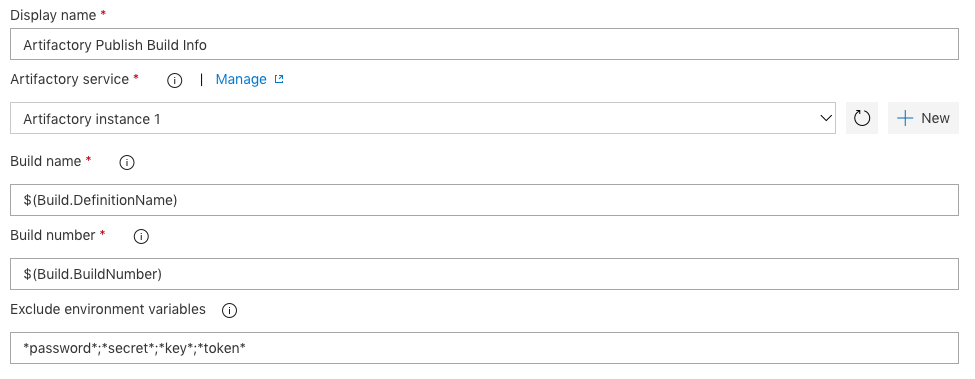
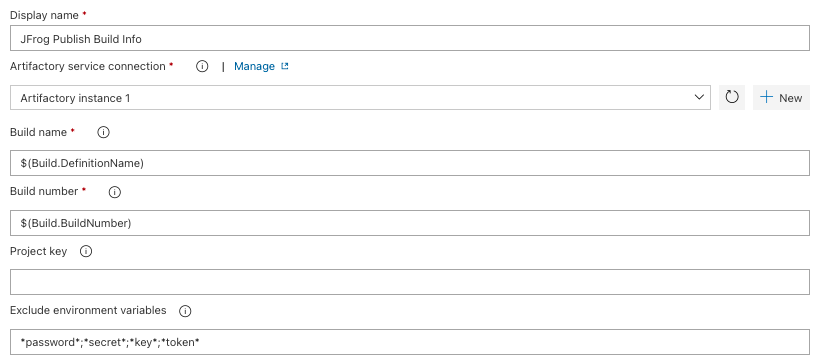
Update overview.md

diff --git a/tests/testUtils.ts b/tests/testUtils.ts
@@ -68,8 +68,7 @@ export function initTests(): void {
     tl.setVariable('Agent.TempDirectory', testDataDir);
     tl.setVariable('Agent.ToolsDirectory', testDataDir);
 
-    // TODO uncomment when eco is back to normal
-    // cleanUpOldRepositories();
+    cleanUpOldRepositories();
     recreateTestDataDir();
     createTestRepositories();
 }

diff --git a/tests/tests.ts b/tests/tests.ts
@@ -607,7 +607,7 @@ describe('JFrog Artifactory Extension Tests', (): void => {
             TestUtils.isSkipTest('maven')
         );
     });
-    // todo get latest extractor
+
     describe('Gradle Tests', (): void => {
         runSyncTest(
             'Gradle',

diff --git a/overview.md b/overview.md
@@ -1,101 +1,141 @@
 ## Overview
-**JFrog Artifactory** is a Universal Repository Manager supporting all major packaging formats and build tools.
+The **JFrog Platform** is a leading universal end-to-end DevOps platform for automating, managing, securing, distributing, orchestrating, monitoring, and optimizing your Cl/ CD pipeline.
 
-[Learn more](https://jfrog.com/artifactory/)
+[Learn more](https://jfrog.com/)
 
-Artifactory provides tight integration Azure DevOps through the **JFrog Artifactory Extension.** 
+**JFrog Artifactory** provides tight integration with Azure DevOps through the **JFrog Extension.** 
 In addition to managing efficient deployment of your artifacts to Artifactory, 
 the extension lets you capture information about your build's resolved dependencies and deployed artifacts. 
 Gain full traceability for your builds as the environment data associated with your build is automatically collected.
 
+[Learn more](https://jfrog.com/artifactory/)
+
 The extension currently supports the following package managers:
-Maven, Gradle, npm, NuGet, Go, Pip and Conan. It also allows downloading and uploading generic files from and to Artifactory.
+Maven, Gradle, Go, npm, NuGet, .NET Core, Pip and Conan. It also allows downloading and uploading generic files from and to Artifactory, and perform generic tasks on artifacts on Artifactory.
+
+**JFrog Xray** is an application security tool that integrates security directly into your DevOps workflows, enabling you to deliver trusted software releases faster.
+
+[Learn more](https://jfrog.com/xray/)
+
+The extension supports triggering a scan on a published build in Artifactory, or auditing a local project from sources.
 
 **JFrog Distribution** is a centralized platform that lets you provision software release distribution.
 
 [Learn more](https://jfrog.com/distribution/)
 
-The **JFrog Artifactory Extension** also allows managing Release Bundles and their distribution processes, including release content, and target destinations. 
+The **JFrog Extension** also allows managing Release Bundles and their distribution processes, including release content, and target destinations. 
 
 ## Documentation and source code
 The full extension documentation is available [here](https://www.jfrog.com/confluence/display/JFROG/Artifactory+Azure+DevOps+Extension).
 <br>
 See the source code is on [GitHub](https://github.com/jfrog/artifactory-azure-devops-extension).
 
-## Downloading generic build dependencies from Artifactory
-The **Artifactory Generic Download** task supports downloading your build dependencies from Artifactory to the build agent. 
-The task triggers the [JFrog CLI](https://www.jfrog.com/confluence/display/CLI/JFrog+CLI) to perform the download. The downloaded dependencies are defined using [File Specs](https://www.jfrog.com/confluence/display/CLI/CLI+for+JFrog+Artifactory#CLIforJFrogArtifactory-UsingFileSpecs) 
+## Generic artifacts handling
+The **JFrog Generic Artifacts** task allows performing generic actions on artifacts, such as:
+1. Downloading and uploading from/to Artifactory
+2. Setting or deleting properties on artifacts in Artifactory
+3. Moving, copying and deleting artifacts in Artifactory
+
+### Downloading generic build dependencies from Artifactory
+The task supports downloading your build dependencies from Artifactory to the build agent. 
+The downloaded dependencies are defined using [File Specs](https://www.jfrog.com/confluence/display/CLI/CLI+for+JFrog+Artifactory#CLIforJFrogArtifactory-UsingFileSpecs) 
 and can be also configured to capture the build-info. 
-It will store the downloaded files as dependencies in the build-info which can later be published to Artifactory using the **Artifactory Publish Build-Info** task.
+It will store the downloaded files as dependencies in the build-info which can later be published to Artifactory using the **JFrog Publish Build-Info** task.
 
 ![GenericDownload](images/marketplace/generic-download.png)
 
-## Uploading generic build artifacts to Artifactory
-The **Artifactory Generic Upload** task supports uploading your generated build artifacts from the build agent's local file system to Artifactory. 
-The task triggers the [JFrog CLI](https://www.jfrog.com/confluence/display/CLI/JFrog+CLI) to perform the upload. 
+### Uploading generic build artifacts to Artifactory
+The task also supports uploading your generated build artifacts from the build agent's local file system to Artifactory. 
 The artifacts are defined using [File Specs](https://www.jfrog.com/confluence/display/CLI/CLI+for+JFrog+Artifactory#CLIforJFrogArtifactory-UsingFileSpecs). 
-The task can be also configured to capture build-info and stores the uploaded files as artifacts in the build-info. The captured build-info can be later published to Artifactory using the **Artifactory Publish Build-Info** task.
+The task can be also configured to capture build-info and stores the uploaded files as artifacts in the build-info. The captured build-info can be later published to Artifactory using the **JFrog Publish Build-Info** task.
 
 ![GenericUpload](images/marketplace/generic-upload.png)
 
-## Triggering NuGet, .NET Core CLI, Maven, Gradle, npm, Go, Pip and Conan builds
-The extension adds the following tasks: **Artifactory NuGet**, **Artifactory .NET Core**, **Artifactory Maven**, **Artifactory Gradle**, **Artifactory npm** and **Artifactory Go** to support full build integration with Artifactory. All tasks allow resolving dependencies and deploying artifacts from and to Artifactory. These tasks can also be configured to capture build-info for the build. The captured build-info can be later published to Artifactory using the **Artifactory Publish Build-Info** task.
-
-![PackageManagers](images/marketplace/package-managers.png)
-
-## Setting / deleting properties on files in Artifactory
-The **Artifactory Properties** task allows setting and deleting properties on both files in Artifactory.
+### Setting / Deleting properties on files in Artifactory
+The JFrog Generic Artifacts task also allows both setting and deleting properties on artifacts in Artifactory.
 
 ![Props](images/marketplace/props.png)
 
-## Scanning builds with JFrog Xray
-The JFrog Artifactory extension integrates with JFrog Xray through JFrog Artifactory, allowing you to have build artifacts scanned for vulnerabilities and other issues using the **Artifactory Xray Scan** task.
-If issues or vulnerabilities are found, you may choose to fail a build.
+### Moving / Copying / Deleting artifacts in Artifactory
+Same task also allows performing generic actions on artifacts in Artifactory.
 
-![Xray](images/marketplace/xray.png)
+![Copy](images/marketplace/move-copy-delete.png)
+
+## Triggering NuGet, .NET Core CLI, Maven, Gradle, npm, Go, Pip and Conan builds
+The extension adds the following tasks - **JFrog NuGet**, **JFrog .NET Core**, **JFrog Maven**, **JFrog Gradle**, **JFrog npm**, **JFrog Go**, **JFrog Pip** and **JFrog Conan** to support full build integration with Artifactory. 
+
+All tasks allow resolving dependencies and deploying artifacts from and to Artifactory. 
+
+These tasks can also be configured to capture build-info for the build. The captured build-info can be later published to Artifactory using the **JFrog Publish Build-Info** task.
+
+![nuget](images/marketplace/nuget.png)
+![dotnet](images/marketplace/dotnet.png)
+![mvn](images/marketplace/mvn.png)
+![gradle](images/marketplace/gradle.png)
+![npm](images/marketplace/npm.png)
+![go](images/marketplace/go.png)
+![pip](images/marketplace/pip.png)
+![conan](images/marketplace/conan.png)
+
+## Scanning builds with JFrog Xray
+The JFrog Extension integrates with JFrog Xray, allowing you to have build artifacts scanned for vulnerabilities and other issues using the **JFrog Build Scan** task.
+If issues or vulnerabilities are found, you may choose to fail the build.
+
+![BuildScan](images/marketplace/build-scan.png)
+![Table](images/marketplace/violations-table.png)
+
+## Audit local projects for vulnerabilities
+Using the **JFrog Audit** task, you can trigger a scan on your local project. The task will automatically detect the used package-manager to perform audit with integration with JFrog Xray.
+By default, the task will print a table of all vulnerabilities found to the logs. You may configure the task to only show violations, based of a Xray watches source of your preference.
+If any violation or vulnerabilities are found, you may choose to fail the build.
+
+![Audit](images/marketplace/audit.png)
 
 ## Recording tracked issues
-Being able to look at the build which was published to Artifactory, and see all the tracked issues (from JIRA for example) associated with it, is one of the most powerful capabilities of Artifactory when it comes to managing metadata about builds. The **Artifactory Collect Issues** tasks can automatically identify the issues handled in the current build, and record them as part of the build-info. Read more about this unique capability [here](https://www.jfrog.com/confluence/display/JFROG/Artifactory+Azure+DevOps+Extension#ArtifactoryAzureDevOpsExtension-CollectingBuildIssues).
+Being able to look at the build which was published to Artifactory, and see all the tracked issues (from JIRA for example) associated with it, is one of the most powerful capabilities of Artifactory when it comes to managing metadata about builds. The **JFrog Collect Issues** tasks can automatically identify the issues handled in the current build, and record them as part of the build-info. Read more about this unique capability [here](https://www.jfrog.com/confluence/display/JFROG/Artifactory+Azure+DevOps+Extension#ArtifactoryAzureDevOpsExtension-CollectingBuildIssues).
 
 ## Publishing build-info
-Build-info captured in preceding tasks can be published to Artifactory using the **Artifactory Publish Build-Info** task.
-The configured build name & number should match the ones specified when the build-info was captured.
+Build-info captured in preceding tasks can be published to Artifactory using the **JFrog Publish Build-Info** task.
+The configured build name & number, and the optional project key, should match the ones specified when the build-info was captured.
 
 ![BuildPublish](images/marketplace/build-publish.png)
 
 ## Promoting published builds 
 Artifactory supports promoting published builds from one repository to another, 
 to support the artifacts life-cycle. 
-The **Artifactory Promotion** task promotes a build, by either copying or moving the build artifacts and/or dependencies to a target repository. 
+The **JFrog Promotion** task promotes a build, by either copying or moving the build artifacts and/or dependencies to a target repository. 
 This task can be added as part of a Release pipeline, to support the release process.
 
 ![BuildPromotion](images/marketplace/build-promotion.png)
 
 ## Discarding published builds 
-The **Artifactory Discard Builds** task is used to discard previously published builds from Artifactory.
+The **JFrog Discard Builds** task is used to discard previously published builds from Artifactory.
 Builds are discarded according to the retention parameters configured in the task.
 
 ![Discard](images/marketplace/discard.png)
 
 ## Executing JFrog CLI commands
-The **JFrog CLI** task allows executing [JFrog CLI](https://www.jfrog.com/confluence/display/CLI/JFrog+CLI) commands, while using the pre-configured connection details of JFrog Artifactory, stored in Azure DevOps.
+The **JFrog CLI V2** task allows executing [JFrog CLI](https://www.jfrog.com/confluence/display/CLI/JFrog+CLI) commands, while using the pre-configured connection details of JFrog Platform, stored in Azure DevOps.
 
 ## Accessing the Build-Info and the Xray scan report
 You can access the build-info from the Build Results in Azure DevOps, if your build pipeline has published the build-info to Artifactory.
-You can also access the Xray scan report, if your build pipeline is configured to scan the build.
 
-![BuildInfo](images/marketplace/build-results.png)
+![BuildResults](images/marketplace/build-results.png)
 ![BuildInfo](images/marketplace/bi-in-artifactory.png)
-![BuildInfo](images/marketplace/xray-report-in-xray.png)
 
 ## Releasing published builds
-The **Artifactory Publish Build-Info** task allows publishing builds to Artifactory. By choosing Artifactory as an artifacts source in a Release, 
+The **JFrog Publish Build-Info** task allows publishing builds to Artifactory. By choosing Artifactory as an artifacts source in a Release, 
 you can select a published build, to make its artifacts available for the release.
 
 ![ArtifactsSource](images/marketplace/artifacts-source.png)
 
 ## Handling Distribution
-The **Distribution** task allows managing release bundles.
+The **JFrog Distribution** task allows managing release bundles.
 The task provides the capability to create, update, sign, distribute or delete release bundles from JFrog Distribution.
 
 ![Distribution](images/marketplace/distribution.png)
+
+## Behind the scenes
+Most tasks trigger the [JFrog CLI](https://www.jfrog.com/confluence/display/CLI/JFrog+CLI) to perform the requested actions.
+The extension handles downloading and caching the JFrog CLI, which is done once per pipeline.
+You can configure the used JFrog CLI version, and configure to download it from your Artifactory instance using the **JFrog Tools Installer** task.
